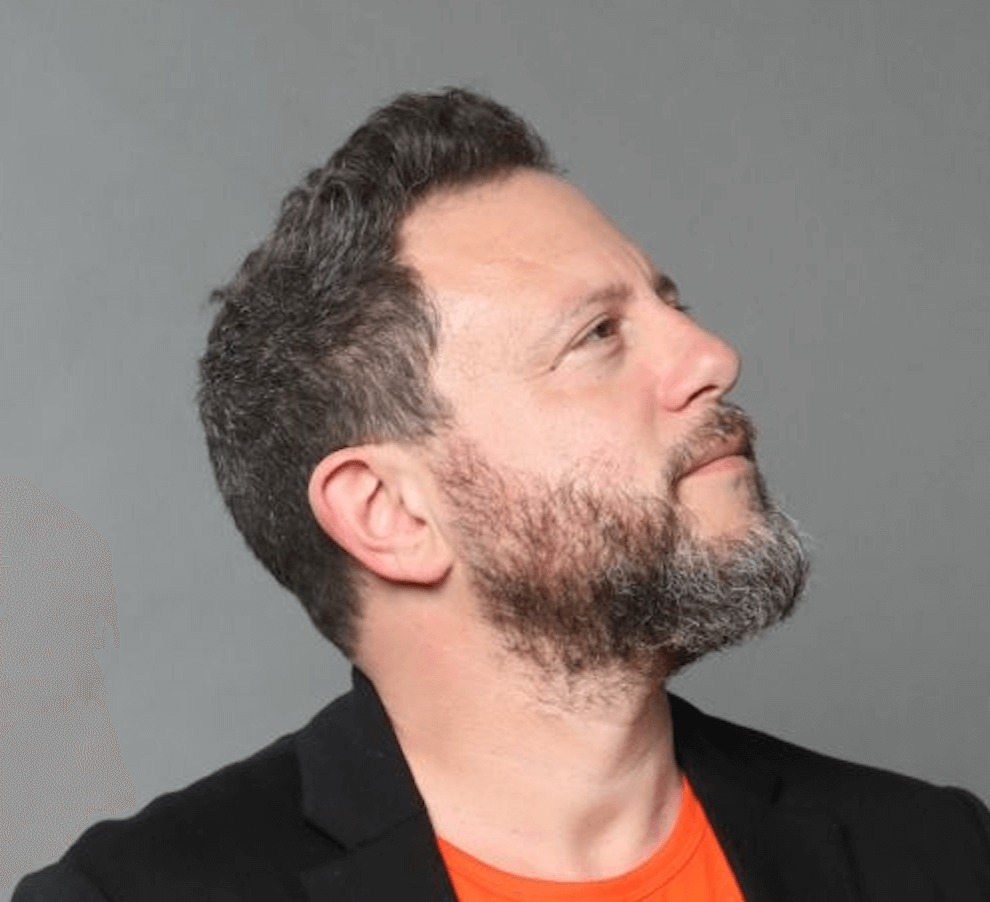
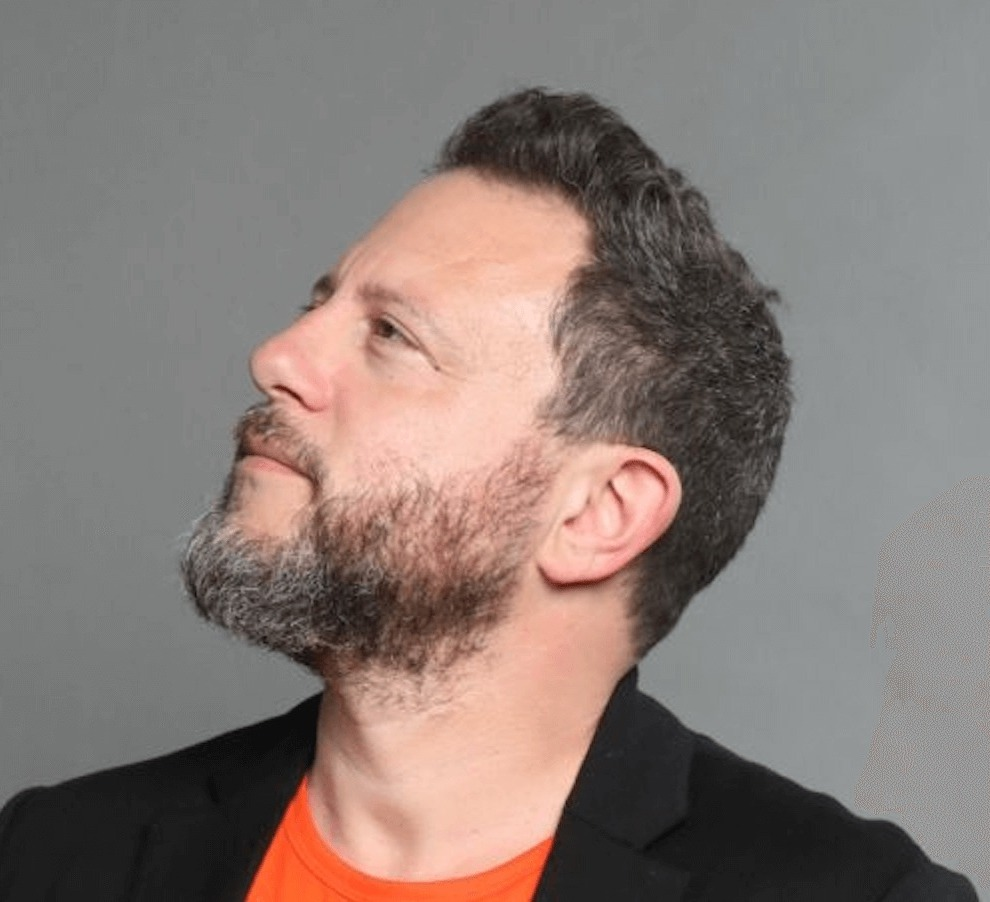
update: flip photo, disable news on homepage, rewrite research, rename blockchain course, update tips, add music embeds

diff --git a/_pages/music.md b/_pages/music.md
@@ -6,5 +6,24 @@ nav: true
 nav_order: 7
 ---
 
-- [Bandcamp](https://nimrodbandleb.bandcamp.com/)
-- [Library](#) <!-- TODO: replace # with the library link -->
+[elektronaj.bandcamp.com](https://elektronaj.bandcamp.com/)
+
+<iframe style="border: 0; width: 100%; height: 120px;" src="https://bandcamp.com/EmbeddedPlayer/album=2504516911/size=large/bgcol=ffffff/linkcol=e99708/tracklist=false/artwork=small/transparent=true/" seamless><a href="http://elektronaj.bandcamp.com/album/kapara">KAPARA by eleKtronaj</a></iframe>
+
+<iframe style="border: 0; width: 100%; height: 120px;" src="https://bandcamp.com/EmbeddedPlayer/album=2119924672/size=large/bgcol=ffffff/linkcol=e99708/tracklist=false/artwork=small/transparent=true/" seamless><a href="http://elektronaj.bandcamp.com/album/the-fourth-dimension">The Fourth Dimension by eleKtronaj</a></iframe>
+
+<iframe style="border: 0; width: 100%; height: 120px;" src="https://bandcamp.com/EmbeddedPlayer/album=1673524058/size=large/bgcol=ffffff/linkcol=e99708/tracklist=false/artwork=small/transparent=true/" seamless><a href="http://elektronaj.bandcamp.com/album/lotem-dub">Lotem Dub by eleKtronaj</a></iframe>
+
+<iframe style="border: 0; width: 100%; height: 120px;" src="https://bandcamp.com/EmbeddedPlayer/album=3161326326/size=large/bgcol=ffffff/linkcol=e99708/tracklist=false/artwork=small/transparent=true/" seamless><a href="http://elektronaj.bandcamp.com/album/one-band">One Band by eleKtronaj</a></iframe>
+
+<iframe style="border: 0; width: 100%; height: 120px;" src="https://bandcamp.com/EmbeddedPlayer/album=3617086603/size=large/bgcol=ffffff/linkcol=e99708/tracklist=false/artwork=small/track=3199250350/transparent=true/" seamless><a href="http://elektronaj.bandcamp.com/album/dubonaj">Dubonaj by eleKtronaj</a></iframe>
+
+<iframe style="border: 0; width: 100%; height: 120px;" src="https://bandcamp.com/EmbeddedPlayer/album=3524899160/size=large/bgcol=ffffff/linkcol=0687f5/tracklist=false/artwork=small/transparent=true/" seamless><a href="https://elektronaj.bandcamp.com/album/klasteron-in-gadera">Klasteron in Gadera by Klasteron</a></iframe>
+
+<iframe style="border: 0; width: 100%; height: 120px;" src="https://bandcamp.com/EmbeddedPlayer/album=2093350579/size=large/bgcol=ffffff/linkcol=0687f5/tracklist=false/artwork=small/transparent=true/" seamless><a href="https://elektronaj.bandcamp.com/album/41">41 by Nimrod Talmon</a></iframe>
+
+<iframe style="border: 0; width: 100%; height: 120px;" src="https://bandcamp.com/EmbeddedPlayer/album=149601283/size=large/bgcol=ffffff/linkcol=0687f5/tracklist=false/artwork=small/transparent=true/" seamless><a href="https://elektronaj.bandcamp.com/album/42">42 by eleKtronaj</a></iframe>
+
+<iframe style="border: 0; width: 100%; height: 120px;" src="https://bandcamp.com/EmbeddedPlayer/album=156660366/size=large/bgcol=ffffff/linkcol=0687f5/tracklist=false/artwork=small/transparent=true/" seamless><a href="https://elektronaj.bandcamp.com/album/loneliness-2">Loneliness by eleKtronaj</a></iframe>
+
+<iframe style="border: 0; width: 100%; height: 120px;" src="https://bandcamp.com/EmbeddedPlayer/album=451134584/size=large/bgcol=ffffff/linkcol=0687f5/tracklist=false/artwork=small/transparent=true/" seamless><a href="https://elektronaj.bandcamp.com/album/43-2">43 by eleKtronaj</a></iframe>

diff --git a/_pages/research.md b/_pages/research.md
@@ -6,14 +6,22 @@ nav: true
 nav_order: 2
 ---
 
-My research is in **computational social choice**, **AI & governance**, and **decentralized systems**.
-I study how groups of agents can make collective decisions in a principled, algorithmically tractable way,
-and how these ideas apply to emerging institutions such as DAOs, participatory budgeting platforms,
-and AI-mediated governance.
+My research is in **computational social choice**, **AI & governance**, **cooperative AI**, and **decentralized systems**.
 
 [Google Scholar](https://scholar.google.com/citations?user=dSfOjCQAAAAJ) &middot; [DBLP](https://dblp.org/pid/53/11268)
 
-<!-- TODO: expand with research program narrative, links to projects/papers -->
+---
+
+Generally, we do research on **digital democracy**, bringing ideas from computational social choice, artificial intelligence, game theory, and combinatorial optimization to develop the foundations and design tools that enable groups and communities to collaboratively achieve their goals in a fair way, with an emphasis on the blockchain and the DAO ecosystem.
+
+In our pursuit of digital democracy we observe the need for devising tools that enable communities to collaboratively decide on various topics, while taking into account the limitations and different goals that community members may have.
+
+Concretely:
+
+- We consider **aggregating preferences** to select committees, to perform participatory budgeting, and to collaboratively produce texts (also for DAOs). Partially funded by ISF.
+- We study how **repeated decisions** may improve social welfare. Partially funded by BGU–NJIT.
+- We investigate the effect of **vote delegation** on the decision process and how liquid democracy may improve the way democracy is implemented. Partially funded by the [EU PERYCLES project](https://perycles-project.eu/).
+- We suggest new **governance systems** for DAOs and other blockchain applications. Partially funded by Optimism.
 
 ---
 
@@ -23,5 +31,5 @@ Research supported in part by:
 
 - **ISF** (Israel Science Foundation)
 - **BGU–NJIT** collaborative grant
-- **EU PERYCLES** project
+- **[EU PERYCLES](https://perycles-project.eu/)** project
 - **Optimism** (decentralized governance research)

diff --git a/_pages/tips.md b/_pages/tips.md
@@ -24,25 +24,30 @@ I welcome inquiries from motivated students interested in **computational social
 
 **Topical introduction:**
 
-- [Handbook of Computational Social Choice](https://www.cambridge.org/core/books/handbook-of-computational-social-choice/8AF63E87F76A5FC974D5E73536C52BD6) (Brandt, Conitzer, Endriss, Lang, Procaccia) — [free PDF](https://cgi.cse.unsw.edu.au/~haziz/comsoc.pdf)
+- [Handbook of Computational Social Choice](https://cgi.cse.unsw.edu.au/~haziz/comsoc.pdf) (Brandt, Conitzer, Endriss, Lang, Procaccia)
 - [Trends in Computational Social Choice](https://archive.illc.uva.nl/COST-IC1205/BookDocs/TrendsCOMSOC.pdf) (Endriss, ed.)
 
 ---
 
 ### Science communication
 
-**How to present:**
-
-<!-- TODO: add links/notes on giving good talks -->
+**How to present:** [slides and notes](https://docs.google.com/document/d/1VsISAFIiwwrJFxfeE_crbbW1TCbW_-gT-UAfyHe6qX8/edit?tab=t.0#heading=h.3t29dgwy891k)
 
 ---
 
-### Getting started at BGU
+**How to write?**
 
-<!-- TODO: add practical onboarding notes — VPN, email setup, library access, HPC cluster, etc. -->
+*Philosophy*
 
----
+- Keep in mind that readers did not read the paper. Try to see your report from the point of view of the audience: explain what needs to be explained (and only this).
+- Keep in mind that readers (as well as you) want to have fun!
+- Keep in mind that readers want to first get the gist; and some of them want to really understand — so don't *only* handwave. Start with intuition, then give the real stuff.
+- Recall Aristotle: *"A whole [story] is what has a beginning and middle and end."*
 
-### Writing and publishing
+*Structure*
 
-<!-- TODO: add tips on LaTeX, BibTeX, arXiv, conference vs. journal submission, etc. -->
+- **Introduction**: What is this about? Why is this interesting?
+- **Structure**: Give a roadmap — what are we going to read?
+- **Related work**: What similar things exist? What is special here?
+- **Content**: Write some interesting, serious stuff.
+- **Conclusion**: (1) Recall what we've learned and give the bottom line. (2) Discuss avenues for future research.

diff --git a/_pages/teaching.md b/_pages/teaching.md
@@ -15,7 +15,7 @@ generation, output analysis, and verification. Tools include Python-based simula
 
 ---
 
-### Blockchain Technologies
+### Blockchain Governance
 
 Undergraduate / graduate course. Distributed ledgers, consensus protocols, smart contracts,
 and decentralized applications. Covers both technical foundations and governance implications.

diff --git a/_pages/about.md b/_pages/about.md
@@ -13,9 +13,7 @@ selected_papers: false
 social: true
 
 announcements:
-  enabled: true
-  scrollable: true
-  limit: 5
+  enabled: false
 
 latest_posts:
   enabled: false
